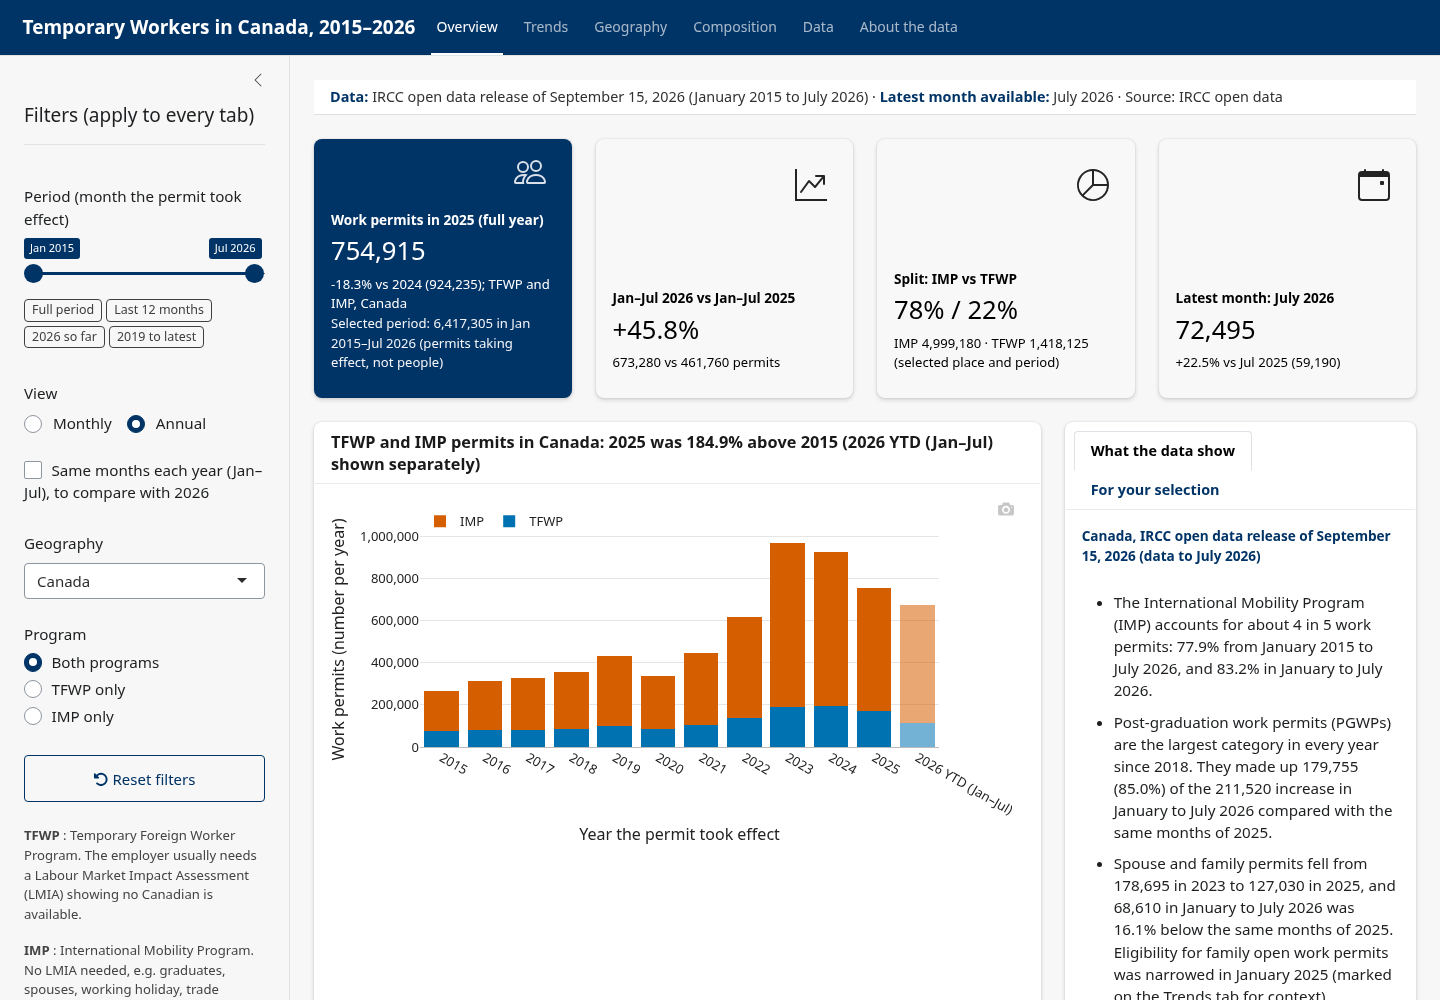
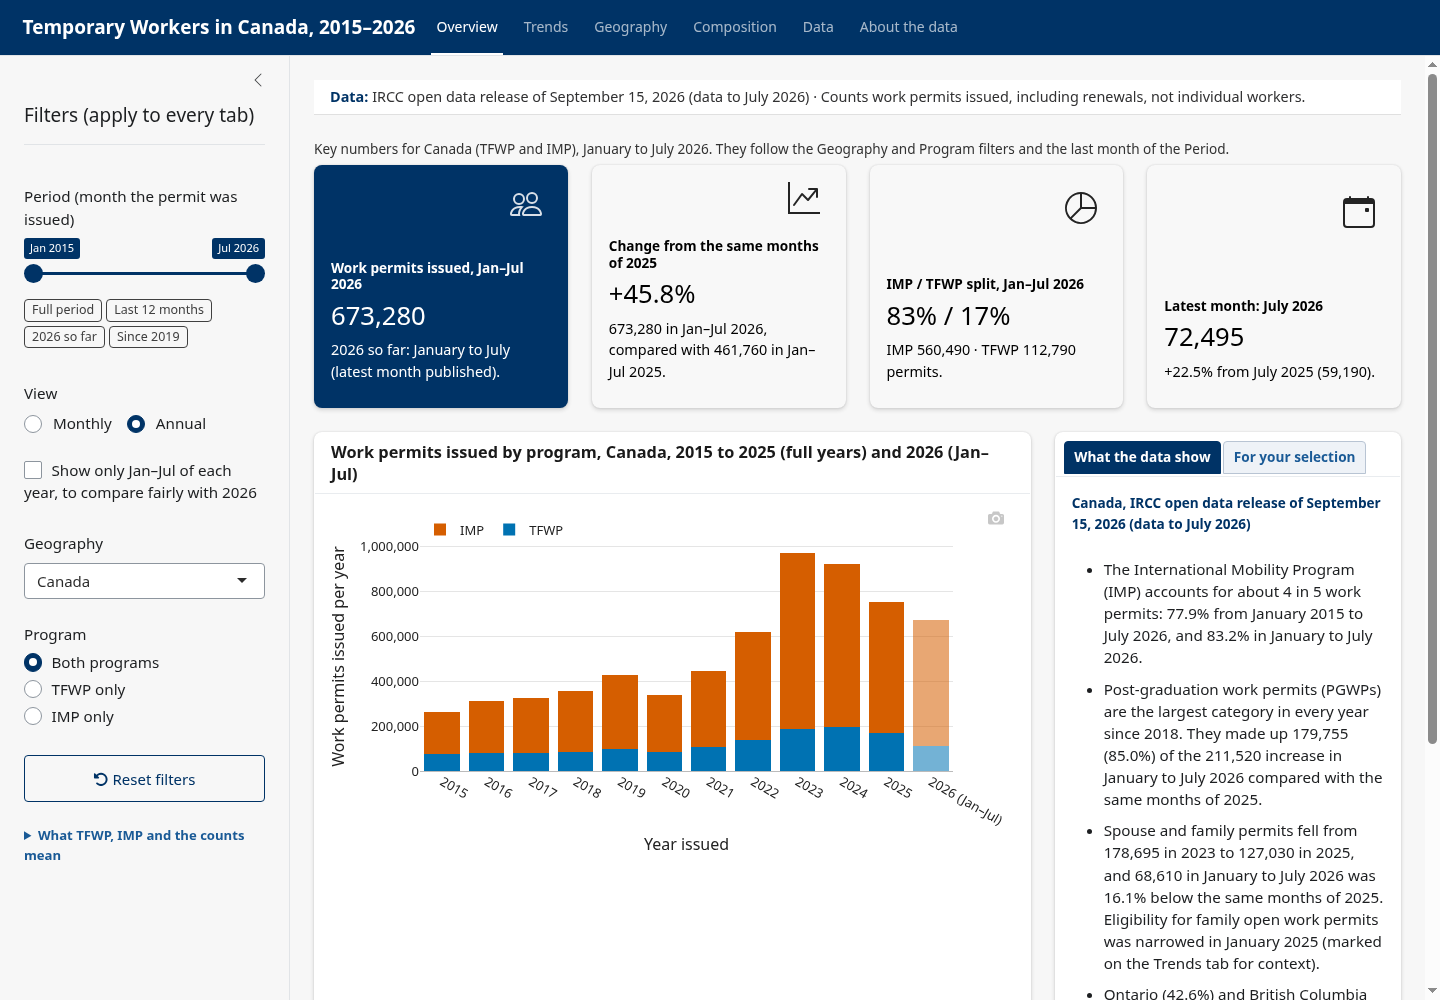
Clearer reading: part year not joined to full years and labelled with its change; titles name full years and the part year; numbered policy markers with a key; Growth header names its periods; hidden-counts flag with tooltip; tab-style notes panel that follows the selection; filters closed on phones

diff --git a/www/styles.css b/www/styles.css
@@ -56,3 +56,20 @@ table.rank-table th, table.rank-table td { padding: 4px 6px !important; }
 .highlights-date { font-size: 0.85rem; margin-bottom: 0.3rem; color: #003366; }
 /* Plain-language pass: one line above the Overview cards saying what they cover */
 .kpi-intro { font-size: 0.85rem; color: #333; margin: 0 0 0.4rem 0; }
+
+/* Reviewer feedback (Oct 20, 2026) */
+/* Overview: "What the data show" / "For your selection" look like tabs (buttons) */
+#overview-notes_tab .nav-link { border: 1px solid #B8C4D3; border-radius: 0.25rem 0.25rem 0 0;
+  background: #EEF2F7; color: #1A5A96; padding: 0.3rem 0.6rem; font-size: 0.85rem; margin: 0 2px 2px 0; }
+#overview-notes_tab .nav-link.active { background: #003366; color: #fff; border-color: #003366; }
+#overview-notes_tab .nav-link:hover:not(.active) { background: #DCE5F0; }
+/* Sidebar definitions: folded behind a clickable line */
+details.sidebar-help > summary { cursor: pointer; color: #1A5A96; font-weight: 600; margin-bottom: 0.4rem; }
+/* Geography table: hidden-counts flag */
+.hidden-flag { cursor: help; font-size: 1.1rem; line-height: 1; color: #7A5A00; }
+/* Phone: the filters start closed; label the button that opens them */
+@media (max-width: 575.98px) {
+  .bslib-sidebar-layout > .collapse-toggle { width: auto !important; padding: 4px 10px !important;
+    border: 1px solid #003366 !important; border-radius: 0.25rem; background: #fff !important; color: #003366 !important; }
+  .bslib-sidebar-layout > .collapse-toggle::after { content: "Filters"; font-weight: 600; margin-left: 4px; }
+}
